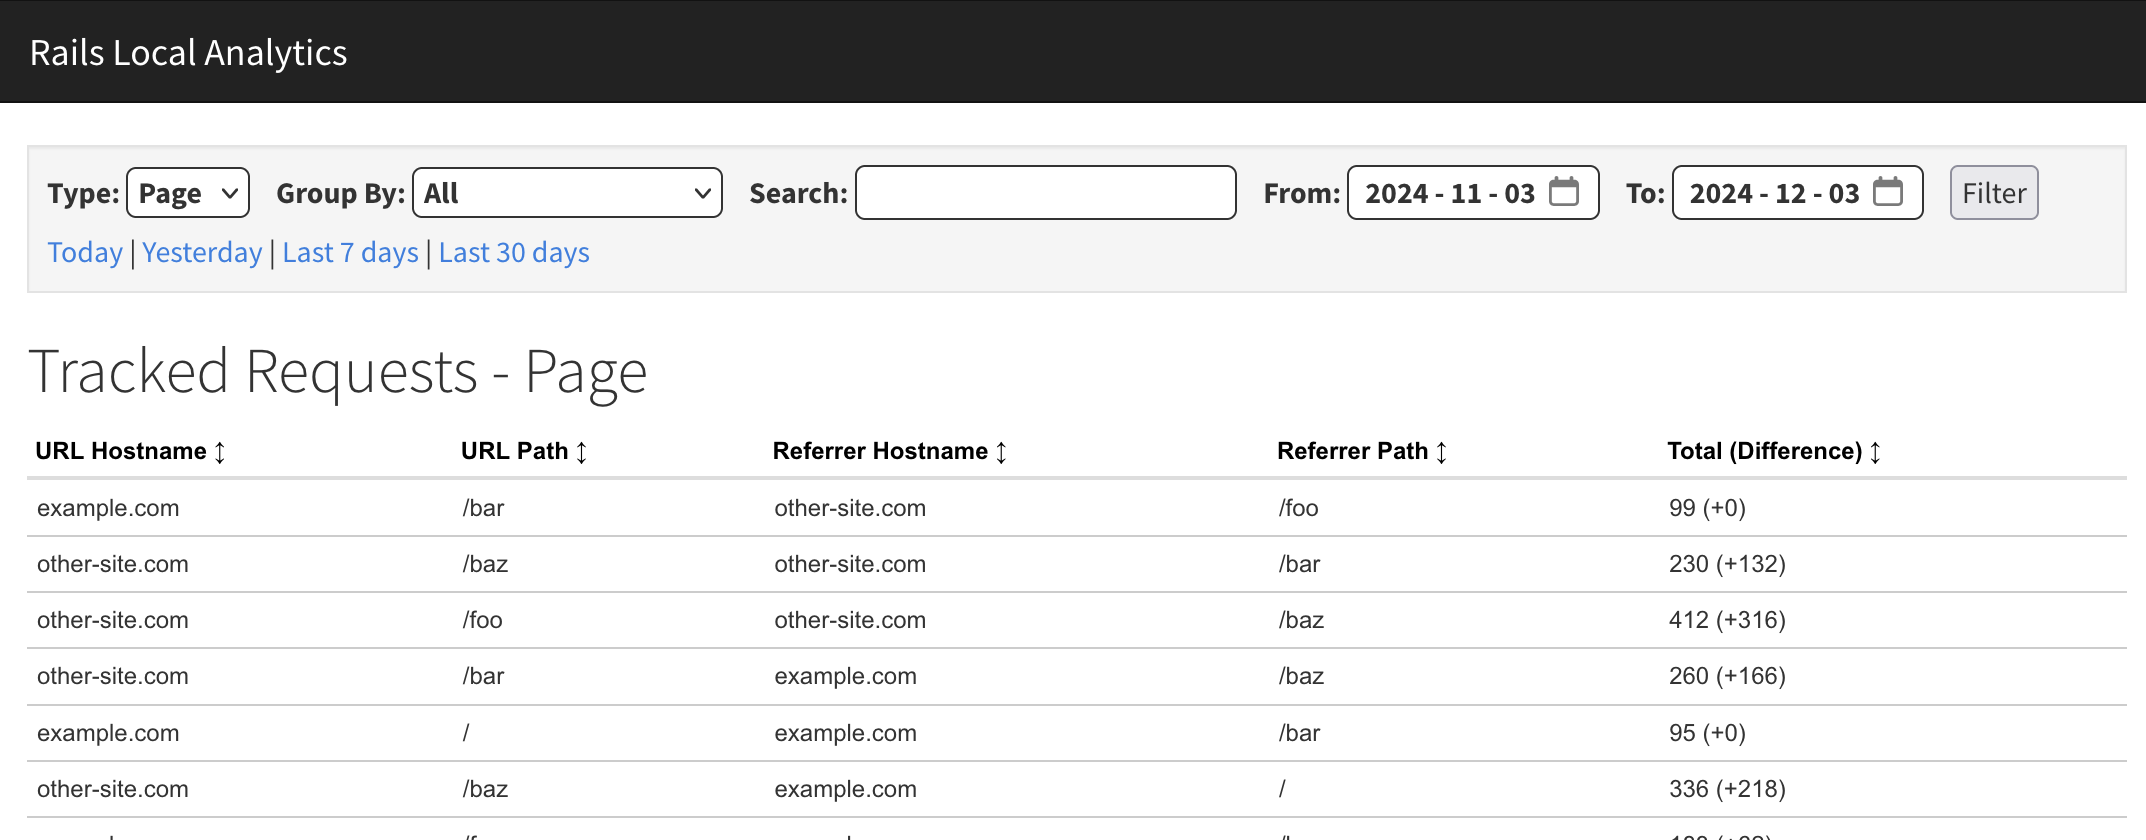
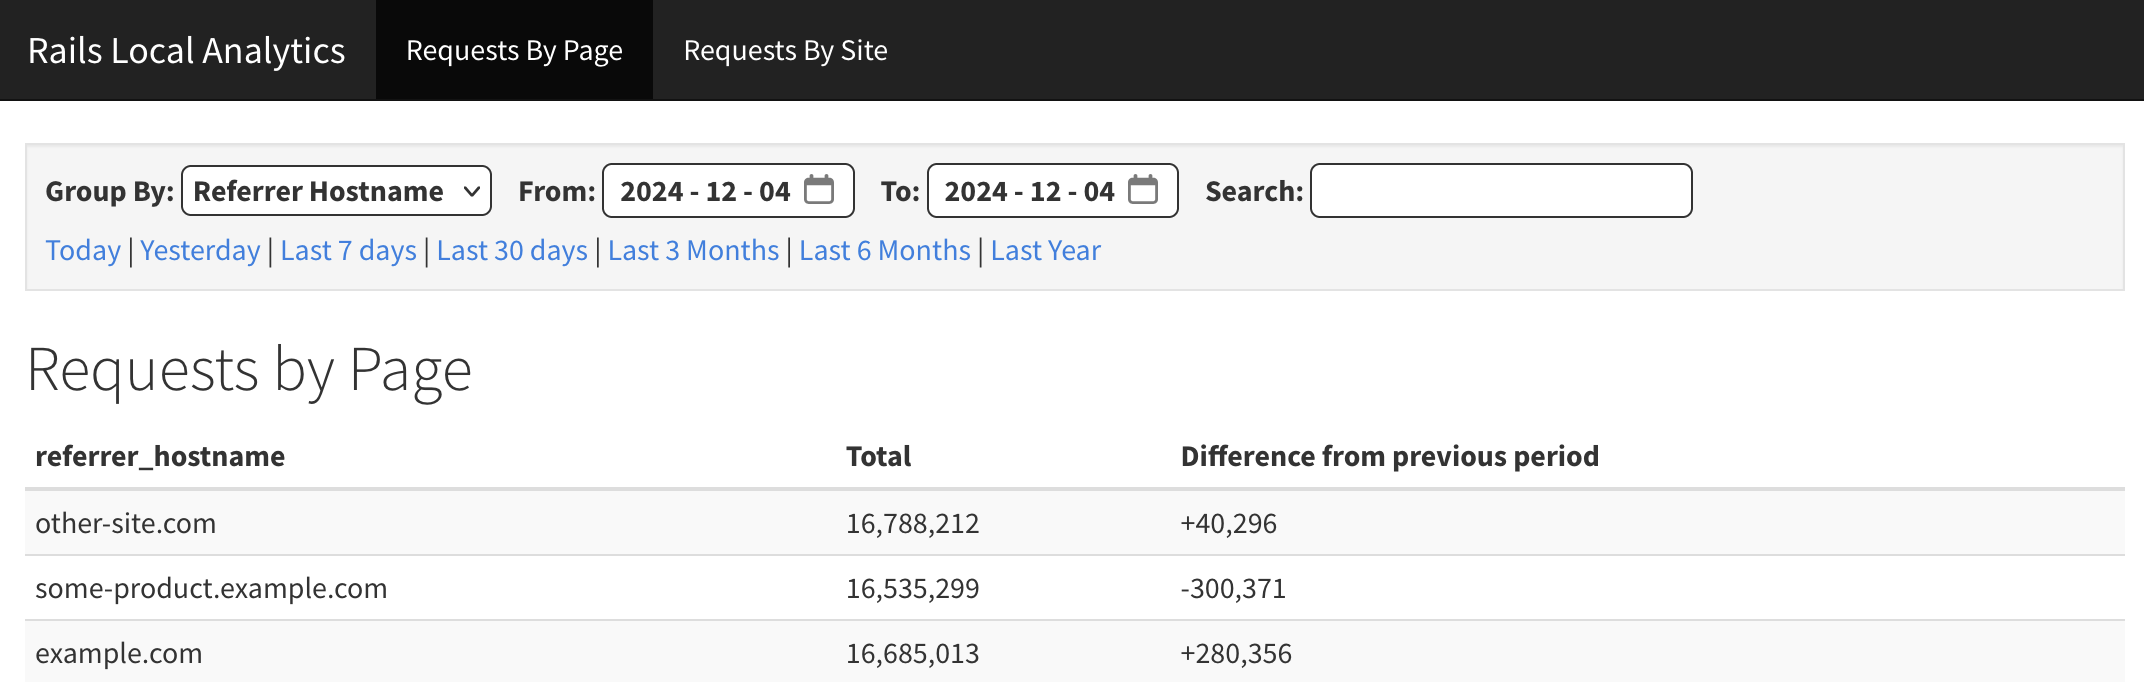
Update screenshots, fix difference when no previous period record exists, show numbers as comma seperated

diff --git a/README.md b/README.md
@@ -27,6 +27,8 @@ It is fully customizable to store more details if desired.
 
 ![Screenshot 3](/screenshot_3.png)
 
+![Screenshot 4](/screenshot_4.png)
+
 ## Installation
 
 ```ruby
